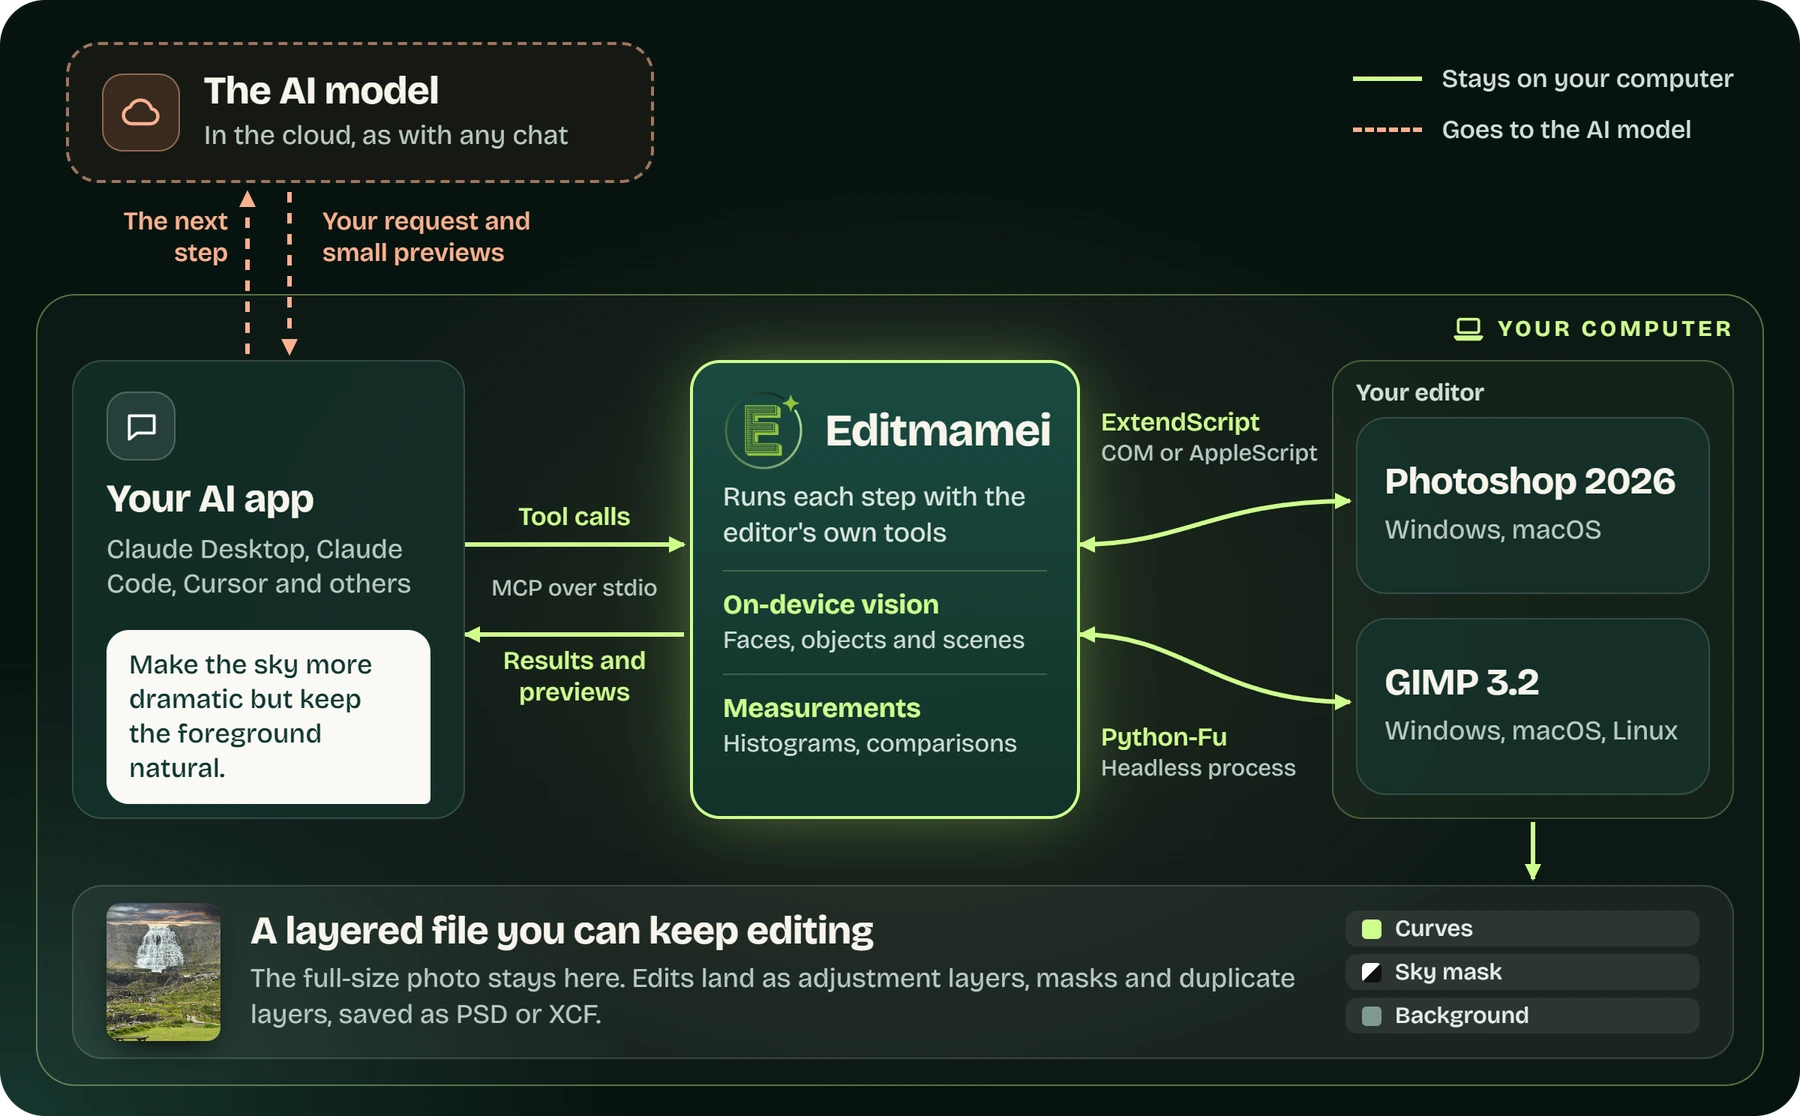
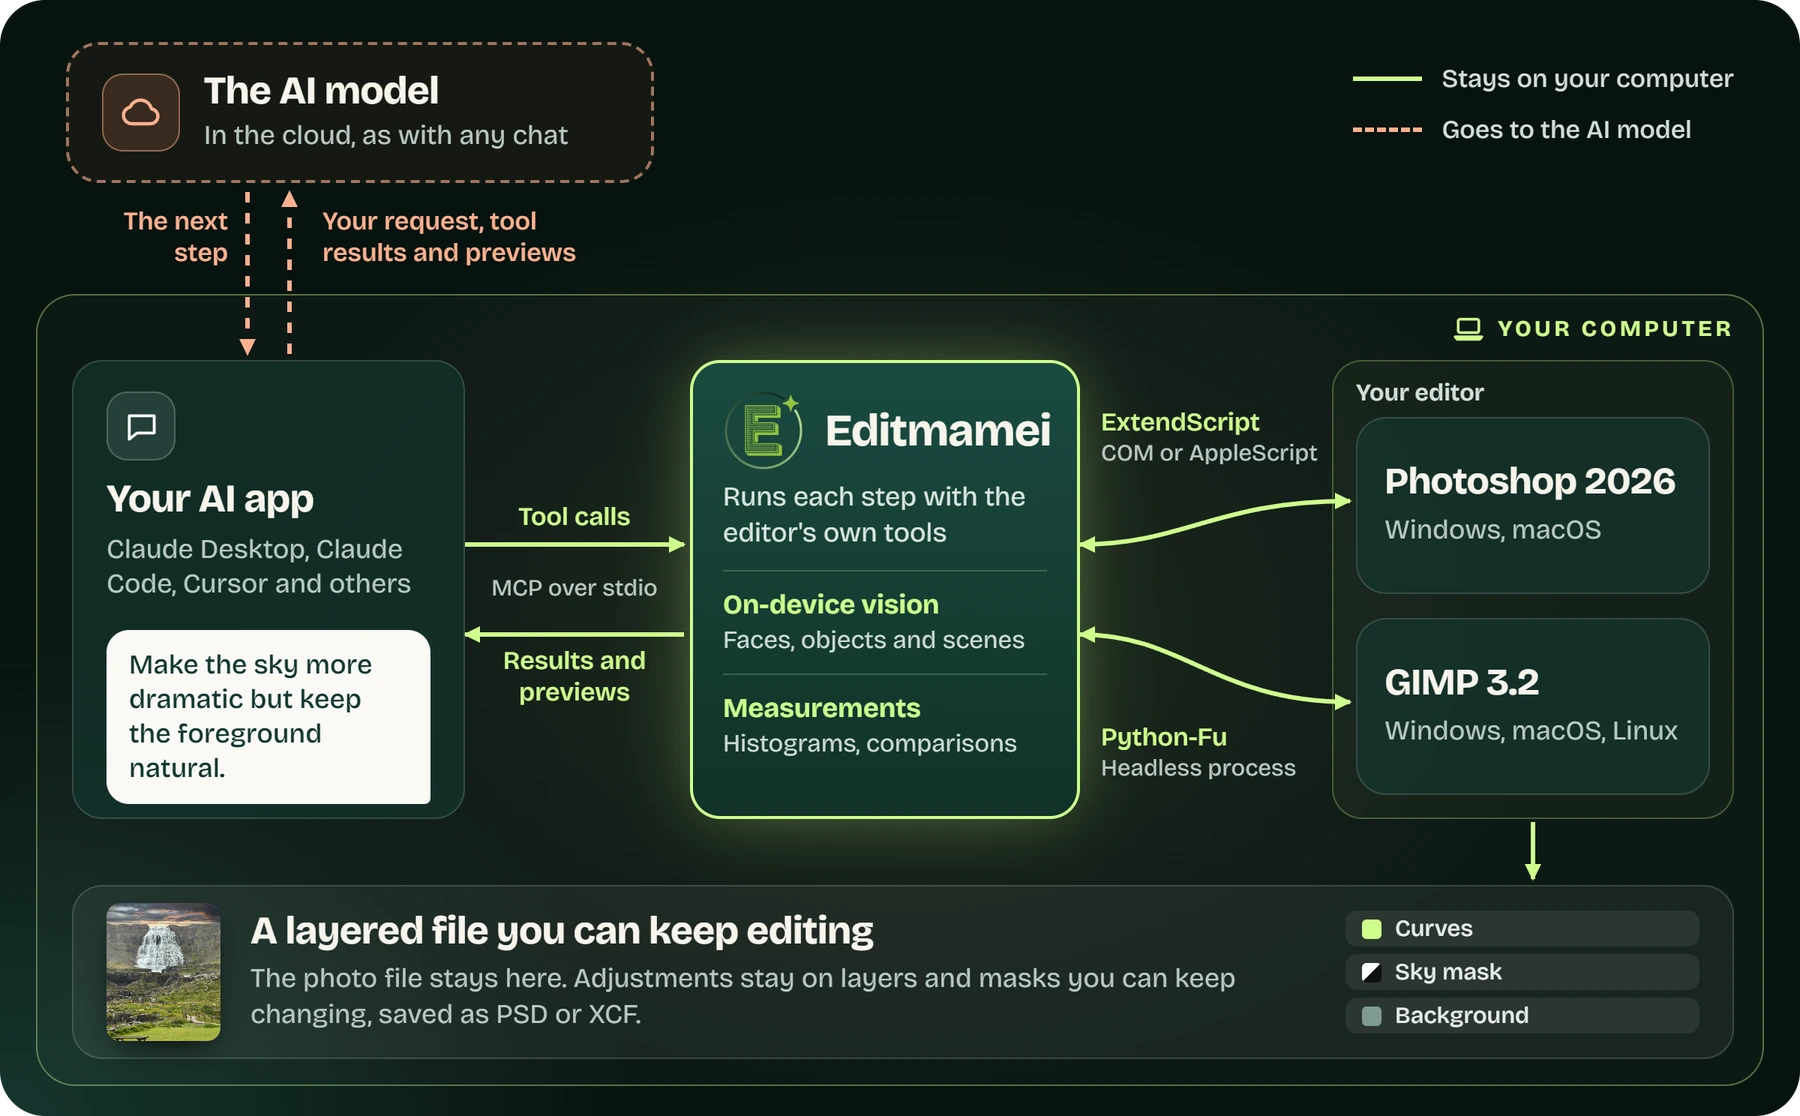
docs: correct the diagram's arrows and the README's privacy and GIMP claims

Changed region(s): [[0.1244, 0.853, 0.7156, 0.9444], [0.1556, 0.1828, 0.3111, 0.2437]]

diff --git a/docs/media/source/how-it-works.html b/docs/media/source/how-it-works.html
@@ -1,6 +1,6 @@
 <!doctype html>
 <!--
-  Source for docs/media/how-it-works.png.
+  Source for docs/media/how-it-works.webp.
   Render: screenshot #diagram at 1200px wide, device scale 2, transparent page background.
   Facts on it must match docs/mcp-reference.md.
 -->
@@ -89,8 +89,8 @@
     </defs>
     <!-- AI model and AI app -->
     <g stroke="#ffb08f" stroke-width="3" stroke-dasharray="7 7">
-      <path d="M165 236V128" marker-end="url(#ac)"/>
-      <path d="M193 128V236" marker-end="url(#ac)"/>
+      <path d="M165 128V236" marker-end="url(#ac)"/>
+      <path d="M193 236V128" marker-end="url(#ac)"/>
     </g>
     <!-- AI app and Editmamei -->
     <g stroke="#ceff8c" stroke-width="3">
@@ -113,7 +113,7 @@
     </div>
     <div><div class="title">The AI model</div><div class="sub" style="margin-top:4px;white-space:nowrap">In the cloud, as with any chat</div></div>
   </div>
-  <div class="wl clay" style="left:215px;top:138px">Your request and<br>small previews</div>
+  <div class="wl clay" style="left:215px;top:138px">Your request, tool<br>results and previews</div>
   <div class="wl clay" style="left:60px;top:138px;width:92px;text-align:right">The next<br>step</div>
 
   <!-- Legend -->
@@ -172,7 +172,7 @@
     <img src="falls.webp" alt="">
     <div>
       <div class="title">A layered file you can keep editing</div>
-      <div class="sub" style="margin-top:5px">The full-size photo stays here. Edits land as adjustment layers, masks and duplicate layers, saved as PSD or XCF.</div>
+      <div class="sub" style="margin-top:5px">The photo file stays here. Adjustments stay on layers and masks you can keep changing, saved as PSD or XCF.</div>
     </div>
     <div class="layers">
       <div class="layer"><i></i>Curves</div>

diff --git a/README.md b/README.md
@@ -9,7 +9,7 @@
 </p>
 
 <p align="center">
-  An MCP server that lets AI apps edit your photos in desktop Photoshop or GIMP. It edits the photo you have instead of generating a new one, and leaves you a layered file you can keep working on.
+  An MCP (Model Context Protocol) server that lets AI apps edit your photos in desktop Photoshop or GIMP. It edits the photo you have instead of generating a new one, and leaves you a layered file you can keep working on.
 </p>
 
 <p align="center">
@@ -49,7 +49,7 @@ Talk to your assistant the way you'd brief a retoucher. These are three real req
       <br><br>
       <sub>About 8 minutes</sub>
     </td>
-    <td width="62%"><img src="https://raw.githubusercontent.com/editmamei/editmamei/dev/docs/media/example-falls.webp" alt="A waterfall under a flat gray sky, and the same photo with a sunset sky. The waterfall and cliffs are unchanged."></td>
+    <td width="62%"><img src="https://raw.githubusercontent.com/editmamei/editmamei/dev/docs/media/example-falls.webp" alt="A waterfall under a flat gray sky, and the same photo with a sunset sky. The waterfall and cliffs are kept."></td>
   </tr>
   <tr>
     <td>
@@ -118,15 +118,15 @@ Connect is a separate product, and its source isn't in this repository. It edits
 ## How it works
 
 <p align="center">
-  <img src="https://raw.githubusercontent.com/editmamei/editmamei/dev/docs/media/how-it-works.webp" width="100%" alt="Diagram. On your computer, your AI app sends tool calls over MCP to Editmamei, which runs each step in Photoshop 2026 through ExtendScript, or in GIMP 3.2 through a headless Python-Fu process, and returns results and previews. The editor produces a layered file you can keep editing. Only your request and small previews cross to the AI model in the cloud, which replies with the next step.">
+  <img src="https://raw.githubusercontent.com/editmamei/editmamei/dev/docs/media/how-it-works.webp" width="100%" alt="Diagram. On your computer, your AI app sends tool calls over MCP to Editmamei, which runs each step in Photoshop 2026 through ExtendScript, or in GIMP 3.2 through a headless Python-Fu process, and returns results and previews. The editor produces a layered file you can keep editing. Your request, tool results, and previews cross to the AI model in the cloud, which replies with the next step.">
 </p>
 
-Your AI app decides each step and calls Editmamei's tools. Editmamei carries the step out in your editor and reports back with structured results and, when your AI needs to look, a small preview. Your AI reads those and decides what to do next.
+Your AI app decides each step and calls Editmamei's tools. Editmamei carries the step out in your editor and reports back with structured results and, when your AI needs to look, a preview. Your AI reads those and decides what to do next. Editmamei also sends content-free usage telemetry and checks npm for updates; see [Privacy](#privacy).
 
-- **Real edits.** Photoshop or GIMP does the pixel work with its own engine, so nothing is redrawn.
-- **Reversible.** Adjustments land as adjustment layers, and destructive pixel operations run on an automatic duplicate.
+- **Real edits.** Photoshop or GIMP does the pixel work with its own engine, and no generative model touches your photo.
+- **Reversible.** In Photoshop, adjustments land as adjustment layers and destructive pixel operations run on an automatic duplicate. In GIMP, adjustments stay live filters, and checkpoints stand in for undo.
 - **Checked, not assumed.** Histograms, region comparisons, and selection previews let your AI measure its own work.
-- **On-device vision.** Face, object, and scene detection run locally on bundled ONNX models, so your AI can target "the person on the left" without a cloud vision call.
+- **On-device vision.** In Photoshop, face, object, and scene detection run locally on bundled ONNX models, so your AI can target "the person on the left" without a cloud vision call.
 - **Only verified tools ship.** A new tool stays out of the tool list until it has passed live sessions against real Photoshop or GIMP.
 
 **112 tools:** 83 for Photoshop (62 Community, 21 Pro) and 29 for GIMP (all Community). The full list is in [docs/tools.md](docs/tools.md).
@@ -162,13 +162,14 @@ Editmamei runs on your computer and edits in your desktop editor. No image conte
 
 | What | Where it goes | Setting |
 | --- | --- | --- |
-| Your full-size photo | Stays on your computer | |
-| Small previews | Your AI app's model provider, the same as dropping a photo into a chat | `privacy.send_previews_to_llm` (on) |
-| Content-free usage telemetry | Editmamei | `telemetry.usage` (on) |
+| Your photo file | Stays on your computer, apart from the previews below | |
+| Previews, 1024px on the long edge by default (your AI can ask for up to 8192px) | Your AI app's model provider, the same as dropping a photo into a chat | `privacy.send_previews_to_llm` (on) |
+| Tool results: file names, layer names, measurements, and metadata such as GPS if your AI asks for it | Your AI app's model provider | |
+| Content-free usage telemetry, with a random install ID | Editmamei | `telemetry.usage` (on) |
 | Sanitized error details | Editmamei, only if you opt in | `telemetry.diagnostics` (off) |
 | Update check, with no identifiers | The npm registry | `update_check` (on) |
 
-Change any of these with `editmamei config set <setting> false` (or `true`). Pro also checks its license and looks for module updates. Photoshop's own Select Subject and Select Sky can use Adobe's cloud, depending on Photoshop's Image Processing preference.
+Change these with `editmamei config set <setting> false` (or `true`). The Claude Desktop extension has its own switches for telemetry and diagnostics. Pro also sends your license key to a third-party licensing service and to Editmamei's delivery service to check for module updates, and a hashed device ID at activation; these have no setting. Photoshop's own Select Subject and Select Sky can use Adobe's cloud, depending on Photoshop's Image Processing preference.
 
 Every field is documented in [privacy.md](docs/privacy.md), including [your rights, and the legal basis](docs/privacy.md#your-rights-and-the-legal-basis). npm releases are published from this repository with signed provenance, so you can check the package against this source.
 

diff --git a/docs/mcp-reference.md b/docs/mcp-reference.md
@@ -46,7 +46,7 @@ MCP client ──stdio, JSON-RPC──▶ editmamei (Node.js MCP server)
 ## Design principles
 
 - **Measure, don't eyeball.** A dedicated set of verification tools (histogram, region compare, layer-bounds diff, selection preview) lets the model check its own work numerically instead of trusting a thumbnail.
-- **Non-destructive by default.** Adjustments are adjustment layers, and destructive pixel operations run on an auto-created duplicate, so an edit stays reversible.
+- **Non-destructive by default.** In Photoshop, adjustments are adjustment layers and destructive pixel operations run on an auto-created duplicate, so an edit stays reversible. In GIMP, adjustments are live filters, and checkpoints stand in for undo.
 - **Built for modern Photoshop.** Editmamei targets Photoshop 2026 (v27.x) so it can rely on current, stable scripting descriptors rather than carrying a decade of drifted behavior.
 
 ## The MCP surface
